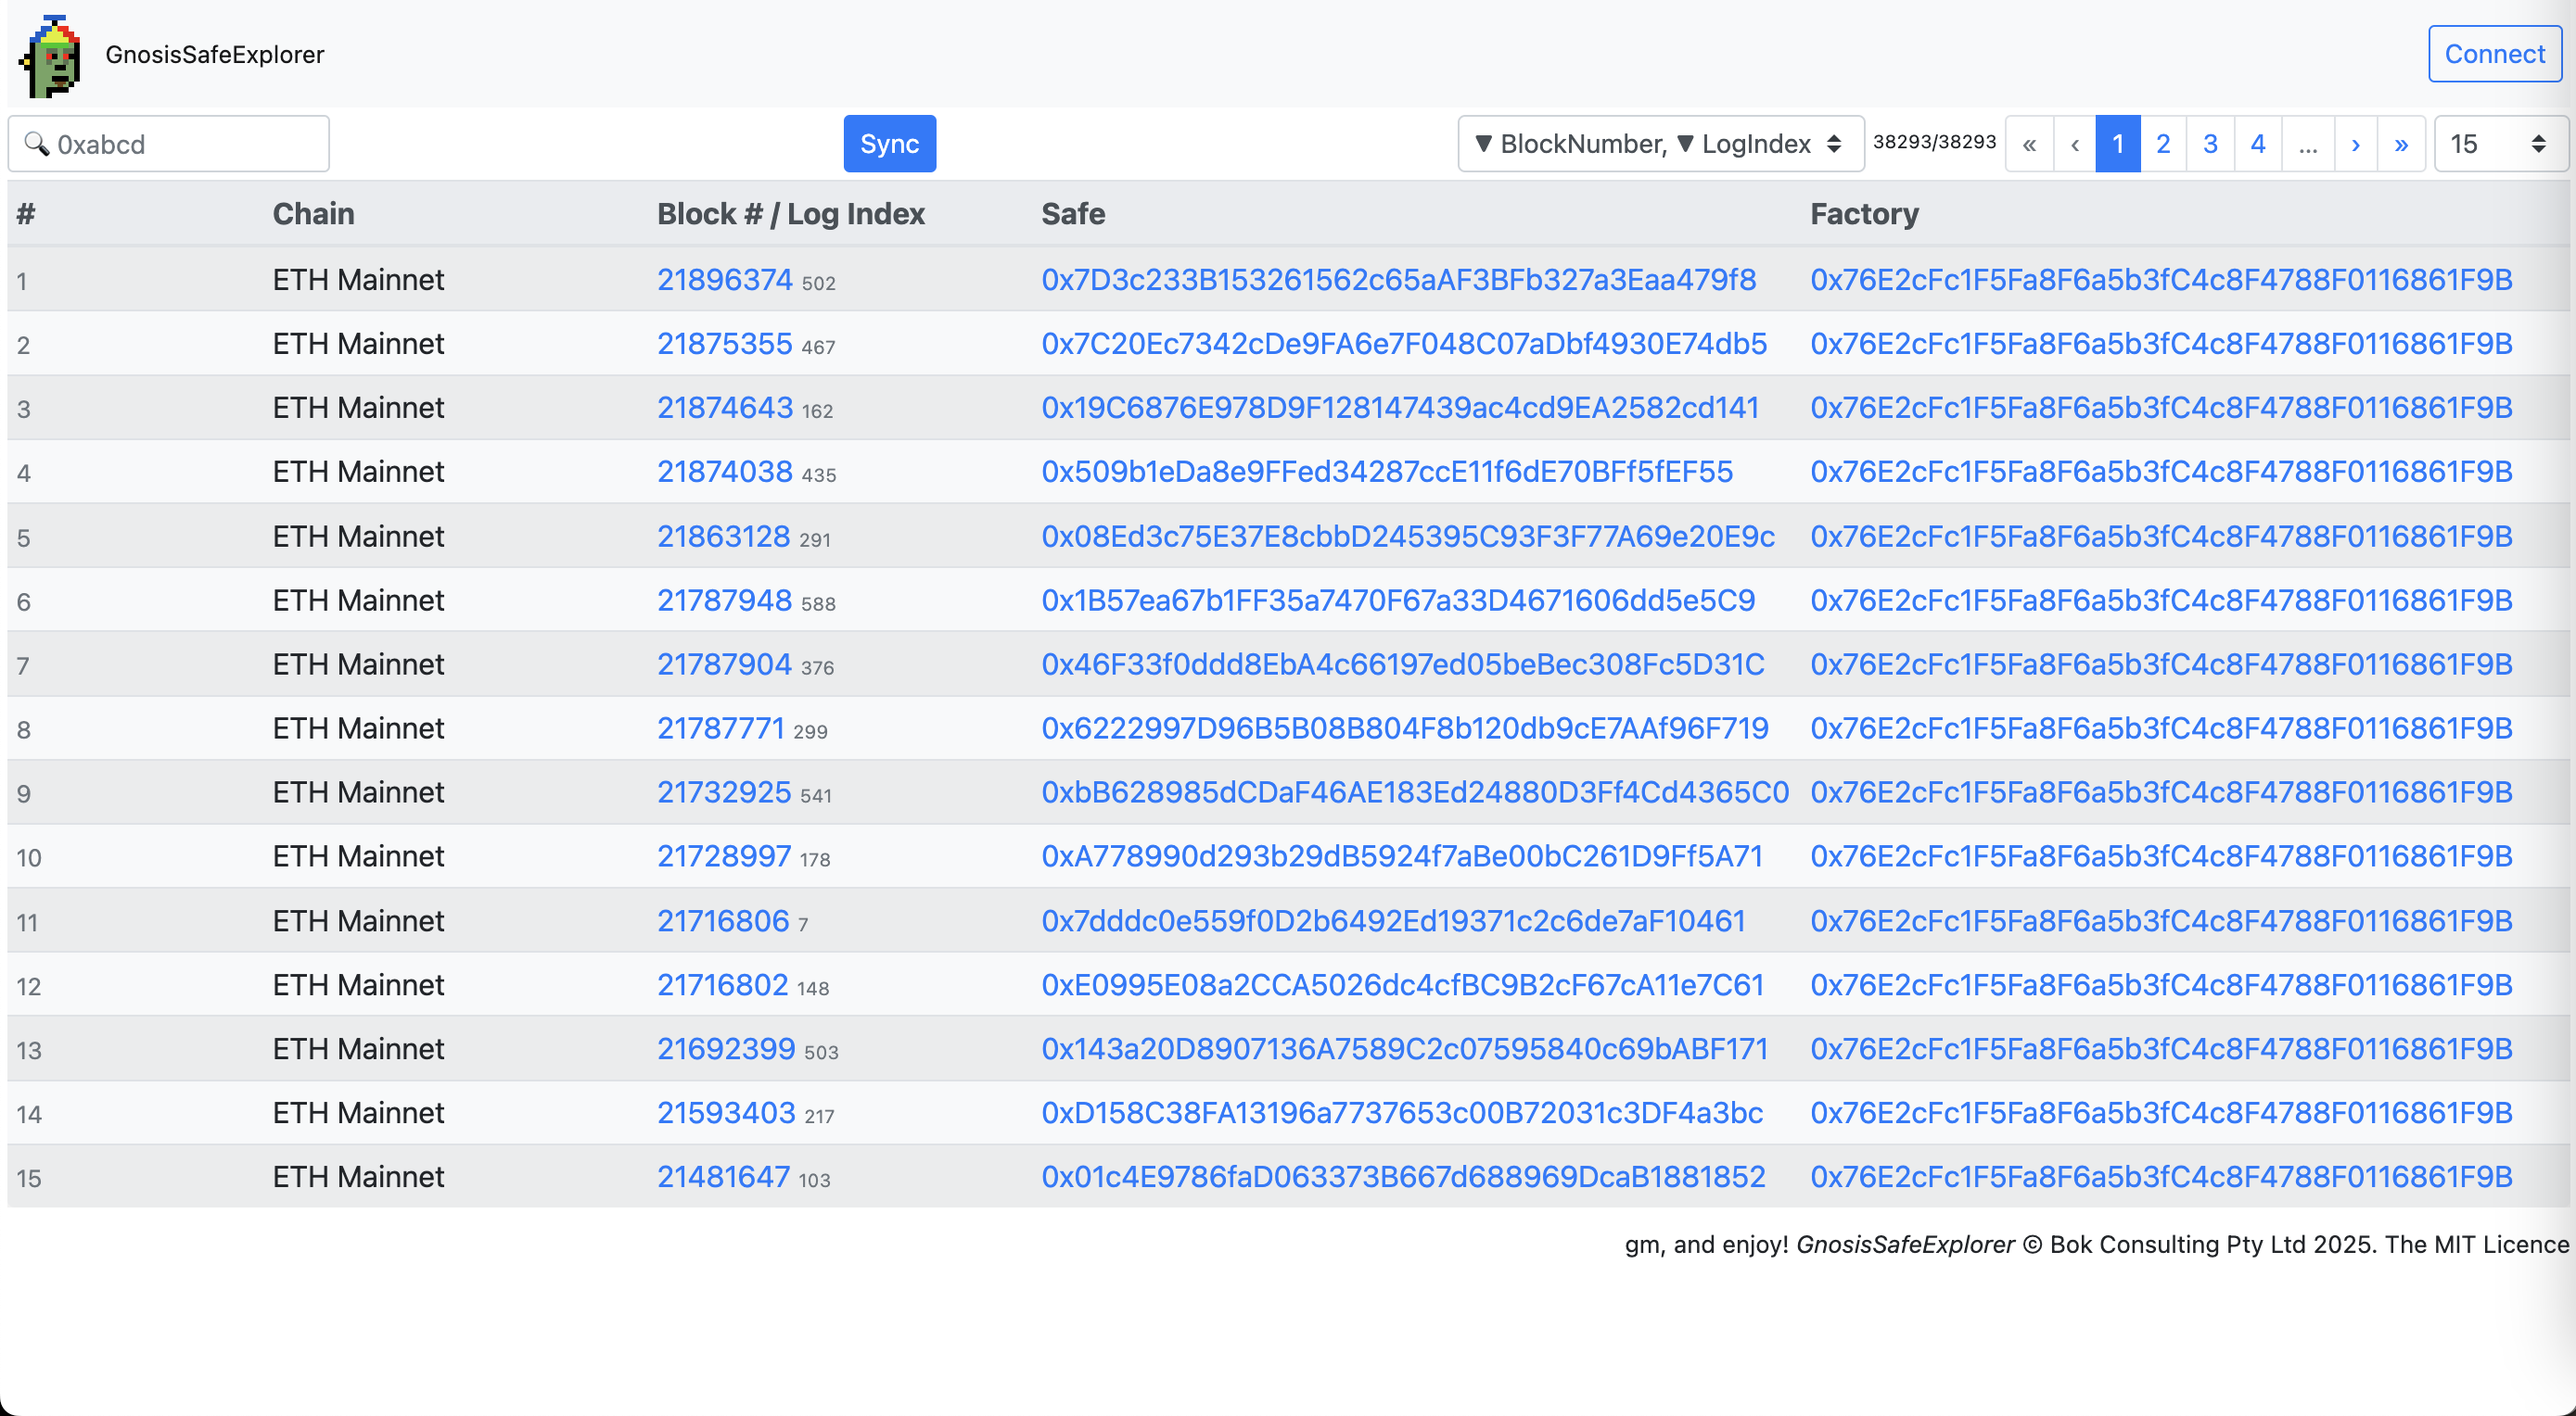
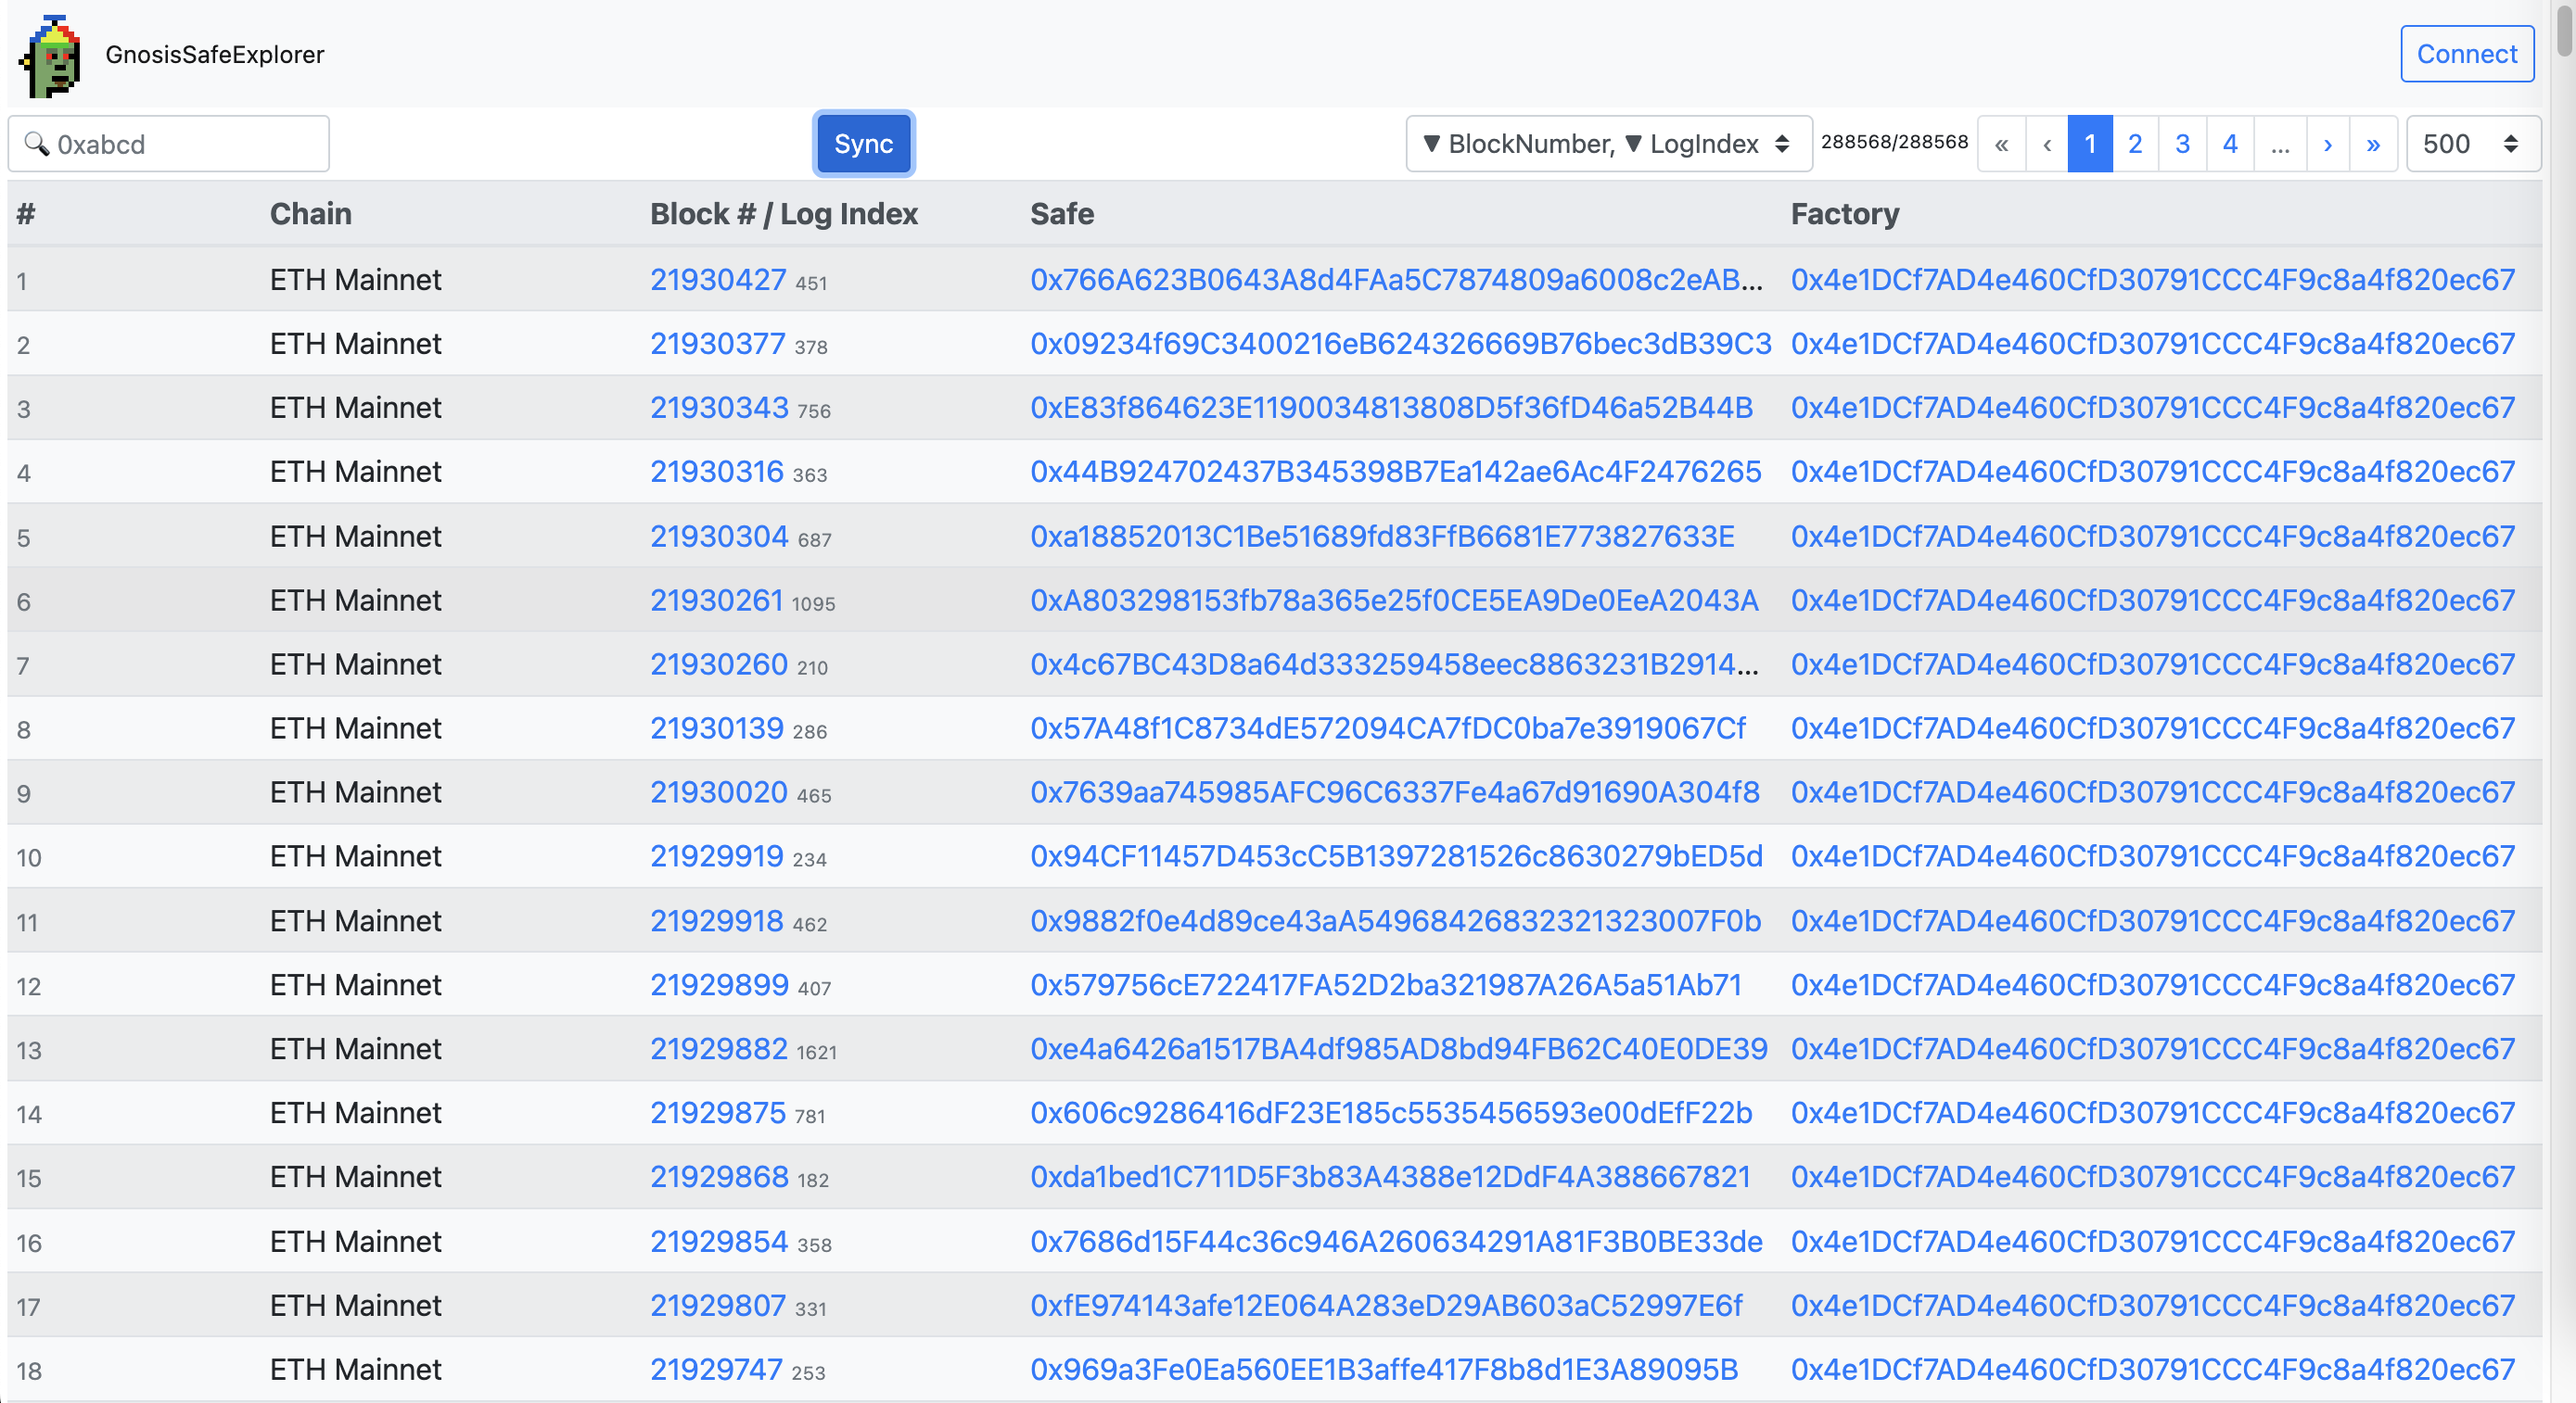
v1.1.1, v1.3.0 and v1.4.1 factories

diff --git a/docs/index.html b/docs/index.html
@@ -277,7 +277,7 @@
           ],
 
           db: {
-            name: "gnosissafeexplorer088b",
+            name: "gnosissafeexplorer088c",
             version: 1,
             schemaDefinition: {
               safes: '[chainId+blockNumber+logIndex],safeAddressIndex,factoryAddressIndex',
@@ -420,7 +420,7 @@
 
           async loadCurrentData() {
             console.log(moment().format("HH:mm:ss") + " loadCurrentData");
-            const DB_PROCESSING_BATCH_SIZE = 10000;
+            const DB_PROCESSING_BATCH_SIZE = 100000;
             const db = new Dexie(this.db.name);
             db.version(this.db.version).stores(this.db.schemaDefinition);
             for (const name of ['indexToAddress', 'indexToTxHash']) {
@@ -472,29 +472,51 @@
               const records = [];
               for (const log of logs) {
                 if (!log.removed) {
-                  const safeAddress = ethers.utils.getAddress('0x' + log.data.substring(26, 66));
-                  if (!(safeAddress in addressToIndex)) {
-                    addressToIndex[safeAddress] = indexToAddress.length;
-                    indexToAddress.push(safeAddress);
+                  if (log.address in factoryAddresses) {
+                    // console.log(moment().format("HH:mm:ss") + " retrieveSafeFactoryEvents - log: " + JSON.stringify(log));
+                    let safeAddress = null;
+                    let implementationAddress = null;
+                    if (log.address == "0x76E2cFc1F5Fa8F6a5b3fC4c8F4788F0116861F9B") {
+                      // 1.1.1 event ProxyCreation(Proxy proxy)
+                      safeAddress = ethers.utils.getAddress('0x' + log.data.substring(26, 66));
+                      implementationAddress = "0x34CfAC646f301356fAa8B21e94227e3583Fe3F5F";
+                    } else if (log.address == "0xa6B71E26C5e0845f74c812102Ca7114b6a896AB2") {
[1 lines of base64/hex data omitted]
+                      safeAddress = ethers.utils.getAddress('0x' + log.data.substring(26, 66));
+                      implementationAddress = ethers.utils.getAddress('0x' + log.data.substring(90, 130));
+                    } else {
[1 lines of base64/hex data omitted]
+                      safeAddress = ethers.utils.getAddress('0x' + log.topics[1].substring(26, 66));
+                      implementationAddress = ethers.utils.getAddress('0x' + log.data.substring(26, 66));
+                    }
+                    if (!(safeAddress in addressToIndex)) {
+                      addressToIndex[safeAddress] = indexToAddress.length;
+                      indexToAddress.push(safeAddress);
+                    }
+                    const safeAddressIndex = addressToIndex[safeAddress];
+                    if (!(implementationAddress in addressToIndex)) {
+                      addressToIndex[implementationAddress] = indexToAddress.length;
+                      indexToAddress.push(implementationAddress);
+                    }
+                    const implementationAddressIndex = addressToIndex[implementationAddress];
+                    if (!(log.transactionHash in txHashToIndex)) {
+                      txHashToIndex[log.transactionHash] = indexToTxHash.length;
+                      indexToTxHash.push(log.transactionHash);
+                    }
+                    const txHashIndex = txHashToIndex[log.transactionHash];
+                    records.push({
+                      chainId,
+                      blockNumber: parseInt(log.blockNumber),
+                      logIndex: parseInt(log.logIndex),
+                      txIndex: parseInt(log.transactionIndex),
+                      txHashIndex,
+                      txHash: log.transactionHash,
+                      safeAddressIndex,
+                      safe: safeAddress,
+                      factoryAddressIndex: addressToIndex[log.address],
+                      factory: log.address,
+                    });
                   }
-                  const safeAddressIndex = addressToIndex[safeAddress];
-                  if (!(log.transactionHash in txHashToIndex)) {
-                    txHashToIndex[log.transactionHash] = indexToTxHash.length;
-                    indexToTxHash.push(log.transactionHash);
-                  }
-                  const txHashIndex = txHashToIndex[log.transactionHash];
-                  records.push({
-                    chainId,
-                    blockNumber: parseInt(log.blockNumber),
-                    logIndex: parseInt(log.logIndex),
-                    txIndex: parseInt(log.transactionIndex),
-                    txHashIndex,
-                    txHash: log.transactionHash,
-                    safeAddressIndex,
-                    safe: safeAddress,
-                    factoryAddressIndex: addressToIndex[factoryAddress],
-                    factory: log.address,
-                  });
                 }
               }
               if (records.length) {
@@ -510,16 +532,24 @@
               console.log(moment().format("HH:mm:ss") + " retrieveSafeFactoryEvents - getLogsFromRange: " + fromBlock + ", toBlock: " + toBlock);
               try {
                 const logs = await provider.getLogs({
-                  // address: factoryAddress,
+                  // address: "0x76E2cFc1F5Fa8F6a5b3fC4c8F4788F0116861F9B", // 1.1.1
+                  // address: "0xa6B71E26C5e0845f74c812102Ca7114b6a896AB2", // 1.3.0
+                  // address: "0x4e1DCf7AD4e460CfD30791CCC4F9c8a4f820ec67", // 1.4.1
                   address: null,
                   fromBlock,
                   toBlock,
-                  topics: [
[1 lines of base64/hex data omitted]
+                  topics: [[
+                      // 1.1.1 event ProxyCreation(Proxy proxy)
[1 lines of base64/hex data omitted]
+                      // 1.3.0 event ProxyCreation(GnosisSafeProxy proxy, address singleton);
+                      // 1.4.1 event ProxyCreation(SafeProxy indexed proxy, address singleton);
[1 lines of base64/hex data omitted]
+                    ],
                   ],
                 });
                 await processLogs(fromBlock, toBlock, logs);
               } catch (e) {
+                console.error(moment().format("HH:mm:ss") + " retrieveSafeFactoryEvents - Error: " + e.message);
                 const mid = parseInt((fromBlock + toBlock) / 2);
                 await getLogsFromRange(fromBlock, mid);
                 await getLogsFromRange(parseInt(mid) + 1, toBlock);
@@ -535,18 +565,6 @@
             const block = await provider.getBlock();
             const latestBlockNumber = block && block.number || null;
             console.log(moment().format("HH:mm:ss") + " retrieveSafeFactoryEvents - latestBlockNumber: " + latestBlockNumber);
-
-            for (const [version, versionData] of Object.entries(ADDRESSES)) {
-              // console.log(version + " => " + JSON.stringify(versionData));
-              for (const [chainId, chainData] of Object.entries(versionData)) {
-                for (const [contractName, contractData] of Object.entries(chainData)) {
-                  if (contractName == "proxy_factory" || contractName == "safe_proxy_factory") {
-                    console.log(version + "/" + chainId + "/" + contractName + " => " + JSON.stringify(contractData));
-                  }
-                }
-              }
-            }
-            return;
 
             const factoryAddress = ADDRESSES["1.1.1"] && ADDRESSES["1.1.1"]["1"] && ADDRESSES["1.1.1"]["1"]["proxy_factory"] || null;
             console.log(moment().format("HH:mm:ss") + " retrieveSafeFactoryEvents - factoryAddress: " + JSON.stringify(factoryAddress));
@@ -574,11 +592,28 @@
               addressToIndex[factoryAddress] = indexToAddress.length;
               indexToAddress.push(factoryAddress);
             }
+            const factoryAddresses = {};
+            for (const [version, versionData] of Object.entries(ADDRESSES)) {
+              for (const [chainId, chainData] of Object.entries(versionData)) {
+                for (const [contractName, address] of Object.entries(chainData)) {
+                  if (contractName == "proxy_factory" || contractName == "safe_proxy_factory") {
+                    console.log(version + "/" + chainId + "/" + contractName + " => " + JSON.stringify(address));
+                    factoryAddresses[address] = "Safe Factory v" + version;
+                    if (!(address in addressToIndex)) {
+                      addressToIndex[address] = indexToAddress.length;
+                      indexToAddress.push(address);
+                    }
+                  }
+                }
+              }
+            }
+            console.log(moment().format("HH:mm:ss") + " retrieveSafeFactoryEvents - factoryAddresses: " + JSON.stringify(factoryAddresses));
 
             const latest = await db.safes.where('[chainId+blockNumber+logIndex]').between([chainId, Dexie.minKey, Dexie.minKey],[chainId, Dexie.maxKey, Dexie.maxKey]).last();
             console.log(moment().format("HH:mm:ss") + " retrieveSafeFactoryEvents - latest: " + JSON.stringify(latest));
+            // TODO: TEST
+            // const startBlock = latest ? parseInt(latest.blockNumber) + 1: latestBlockNumber - 100000;
             const startBlock = latest ? parseInt(latest.blockNumber) + 1: 0;
-            // const startBlock = latest ? parseInt(latest.blockNumber) + 1: latestBlockNumber - 1000000;
             console.log(moment().format("HH:mm:ss") + " retrieveSafeFactoryEvents - startBlock: " + startBlock);
             await getLogsFromRange(startBlock, latestBlockNumber);
 

diff --git a/README.md b/README.md
@@ -24,7 +24,7 @@ Web3 dapp: https://bokkypoobah.github.io/GnosisSafeExplorer/ (WIP)
 
 ### Sample Screens
 
-Safe 1.1.1 only
+288,568 v1.1.1, v1.3.0 and v1.4.1 Gnosis Safes have been deployed at this time.
 
 <kbd><img src="images/SampleScreen01.png" width="800" /></kbd>
 
